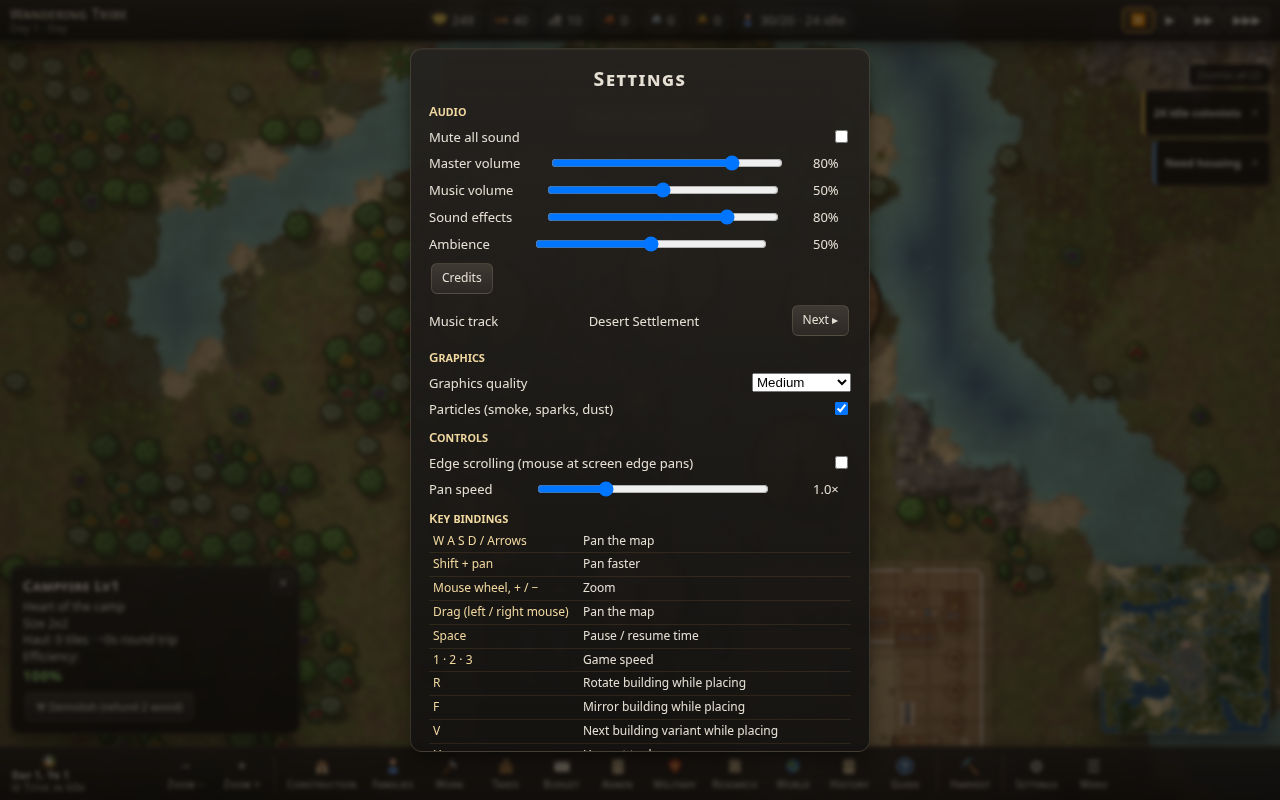
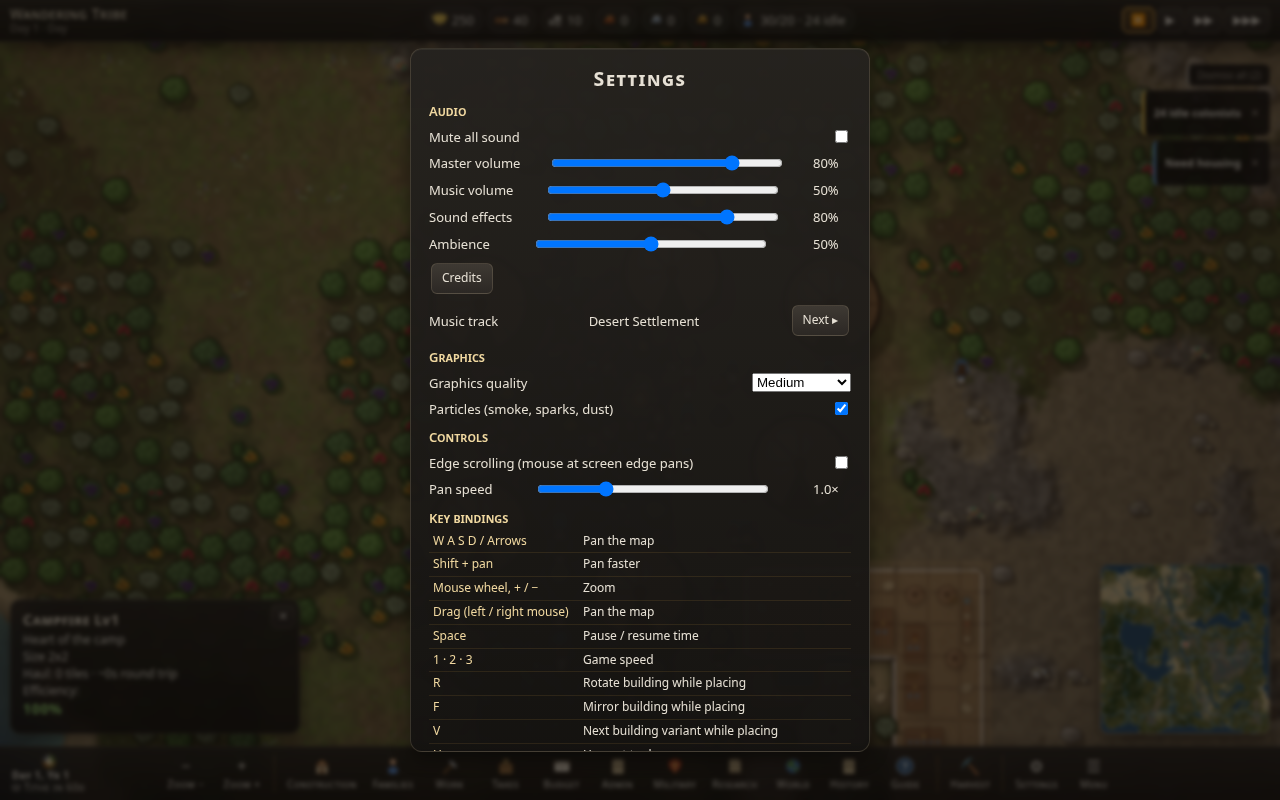
Perf: finer chunk/tree bake slices, building sprites built under a 5 ms frame budget and pre-built in idle frames, progressive sprite mips, minimap terrain overview refreshed at most every 15 s

diff --git a/index.html b/index.html
@@ -1183,7 +1183,7 @@ window.addEventListener('contextmenu',e=>{const t=e.target;if(t&&(t.tagName==='I
 window.addEventListener('resize',fitCanvas);
 
 function ghostAt(t){if(!placing||placing==='__move')return t;const s=bsz(placing);return{gx:t.gx-(s>>1),gy:t.gy-(s>>1)}}
-function worldChanged(){rebuildOcc();calcRT();ov64=null;computeRoads();buildProps();chunkSig++;overview=null;mmBase=null;PC.clear();ffAge(1);bgSig=''}
+function worldChanged(){rebuildOcc();calcRT();ovStale=1;computeRoads();buildProps();chunkSig++;overview=null;mmBase=null;PC.clear();ffAge(1);bgSig=''}
 function moveCamp(gx,gy){if(S.tier>0)return;const ok=[];for(let y=gy-2;y<=gy+2;y++)for(let x=gx-2;x<=gx+2;x++){const t=ter(x,y);if(t===T_GRASS||t===T_HILL)ok.push(1)}if(ok.length<18){log('Too rough to camp there — pick open ground.');return}
  const old=S.bl.slice();S.center={x:gx,y:gy};S.bl=[];rebuildOcc();for(const b of old){const dx=b.x-old[0].x,dy=b.y-old[0].y;S.bl.push({t:b.t,l:b.l,x:gx+dx,y:gy+dy});rebuildOcc();if(placeErr(b.t,gx+dx,gy+dy,true)!=='Tile taken'&&placeErr(b.t,gx+dx,gy+dy,true)){S.bl.pop();rebuildOcc();if(!autoPlace(b.t,b.l,true))log('Left a '+BLD[b.t].n+' behind.')}}
  worldChanged();burst(gx+.5,gy+.5,'#e8d8a8',30);log('The tribe packs up and moves camp.');centerOn(gx,gy);save();renderView()}
@@ -1258,7 +1258,7 @@ function cliffFaces(g,cx,cy){const C=CLIFF;for(let gy=cy*CS;gy<cy*CS+CS;gy++)for
 function renderChunk(cx,cy){const it=renderChunkG(cx,cy);let r;while(!(r=it.next()).done);return r.value}
 const PBCOV=new Set();function chComp(ch,cx,cy,DL){const W=CS*TS,M=48;if(ch.pc&&ch.pcV===PBV)return ch.pc;const ks=[];for(let dy=-1;dy<=1;dy++)for(let dx=-1;dx<=1;dx++){const k=(cx+dx)+','+(cy+dy),a=PCH[k];if(!a||!a.length)continue;const e=PBK[k];if(!e||e.src!==PBV||e.sc!==1)return ch.pc&&ch.pcV!==PBV?null:null;ks.push([e,dx,dy])}if(performance.now()>DL)return null;
  if(!ch.pcg){const[c,g]=mk(W,W);ch.pc=c;ch.pcg=g}const g=ch.pcg;g.setTransform(1,0,0,1,0,0);g.clearRect(0,0,W,W);g.drawImage(ch.c,0,0);for(const[e,dx,dy]of ks)g.drawImage(e.c,dx*W-M,dy*W-M,W+M*2,W+M*2);ch.pcV=PBV;return ch.pc}
-function cMip(c,tw){const W=c.width;if(!W||W<=tw*2)return c;const M=c._mip||(c._mip={});let L=W;while(L>tw*2&&L>16)L=L>>1;if(M[L])return M[L];let src=c,cw=W;for(const k in M){if(+k>L&&+k<cw){cw=+k;src=M[k]}}const[m,g]=mk(L,Math.max(1,Math.round(c.height*L/W)));g.imageSmoothingEnabled=true;g.imageSmoothingQuality='high';g.drawImage(src,0,0,m.width,m.height);return M[L]=m}
+function cMip(c,tw){const W=c.width;if(!W||W<=tw*2)return c;const M=c._mip||(c._mip={});let L=W;while(L>tw*2&&L>16)L=L>>1;if(M[L])return M[L];let src=c,cw=W;for(const k in M){if(+k>L&&+k<cw){cw=+k;src=M[k]}}if(cw>L*2)src=cMip(c,L*2+1);const[m,g]=mk(L,Math.max(1,Math.round(c.height*L/W)));g.imageSmoothingEnabled=true;g.imageSmoothingQuality='medium';g.drawImage(src,0,0,m.width,m.height);return M[L]=m}
 const CHJ={};function chunkJob(cx,cy,DL){const k=cx+','+cy;let j=CHJ[k];if(!j||j.sig!==chunkSig)j=CHJ[k]={it:renderChunkG(cx,cy),sig:chunkSig};do{const r=j.it.next();if(r.done){delete CHJ[k];const ch=r.value;ch.sig=chunkSig;CH[k]=ch;lowEnsure();lowPut(cx,cy,ch);return ch}}while(performance.now()<DL);return null}
 function* renderChunkG(cx,cy){const W=CS*32,ox=cx*W,oy=cy*W;const[c,g]=mk(W,W);const img=g.createImageData(W,W),d=img.data;let fimg=null,fd=null;const col=[0,0,0],tmp=[0,0,0];const dry=!!evOn('drought');
  for(let gy=cy*CS;gy<cy*CS+CS;gy++){for(let gx=cx*CS;gx<cx*CS+CS;gx++){const gi=gy*MW+gx,own=RT[gi],nbs=NBD.map(([dx,dy])=>rtAt(gx+dx,gy+dy)),diff=nbs.some(r=>r!==own);
@@ -1288,15 +1288,15 @@ function* renderChunkG(cx,cy){const W=CS*32,ox=cx*W,oy=cy*W;const[c,g]=mk(W,W);c
      R+=(r2-R)*a;G+=(g2-G)*a;B+=(b2-B)*a}}
    const k=(ly+(gy-cy*CS)*32)*W*4+(lx+(gx-cx*CS)*32)*4;d[k]=R*m;d[k+1]=G*m;d[k+2]=B*m;d[k+3]=255;
    if(wat>.08&&wat<.6&&h>.18){const fa=Math.max(0,1-Math.abs(wat-.3)*4.2)*(.55+.45*Math.sin((X+Y)*.35+n2*9));if(!fimg){fimg=g.createImageData(W,W);fd=fimg.data}fd[k]=236;fd[k+1]=244;fd[k+2]=240;fd[k+3]=Math.max(0,fa)*215}
-   else if(wat>.99&&hsh(X>>1,Y>>1,71)<.006){if(!fimg){fimg=g.createImageData(W,W);fd=fimg.data}fd[k]=200;fd[k+1]=228;fd[k+2]=240;fd[k+3]=150}}}if(gy&1)yield 0}
- g.putImageData(img,0,0);if(CLIFF)cliffFaces(g,cx,cy);
+   else if(wat>.99&&hsh(X>>1,Y>>1,71)<.006){if(!fimg){fimg=g.createImageData(W,W);fd=fimg.data}fd[k]=200;fd[k+1]=228;fd[k+2]=240;fd[k+3]=150}}}yield 0}
+ g.putImageData(img,0,0);yield 0;if(CLIFF)cliffFaces(g,cx,cy);
 // painterly grass tufts / pebbles / reeds
- for(let gy=cy*CS;gy<cy*CS+CS;gy++)for(let gx=cx*CS;gx<cx*CS+CS;gx++){const gi=gy*MW+gx,r=RT[gi];if(occ[gi]||roadSet[gi])continue;{let nb=0;for(const[dx,dy]of NBD){const o=occ[(gy+dy)*MW+gx+dx];if(o&&S.bl[o-1]&&!FLATB[S.bl[o-1].t]&&!APX[S.bl[o-1].t])nb=1}if(nb&&hsh(gx,gy,44)<.8)continue}const lx0=(gx-cx*CS)*32,ly0=(gy-cy*CS)*32;
+ for(let gy=cy*CS;gy<cy*CS+CS;gy++){if(gy&1)yield 0;for(let gx=cx*CS;gx<cx*CS+CS;gx++){const gi=gy*MW+gx,r=RT[gi];if(occ[gi]||roadSet[gi])continue;{let nb=0;for(const[dx,dy]of NBD){const o=occ[(gy+dy)*MW+gx+dx];if(o&&S.bl[o-1]&&!FLATB[S.bl[o-1].t]&&!APX[S.bl[o-1].t])nb=1}if(nb&&hsh(gx,gy,44)<.8)continue}const lx0=(gx-cx*CS)*32,ly0=(gy-cy*CS)*32;
   if(r<=R_FOREST){const n=3+(hsh(gx,gy,3)*5|0);for(let k=0;k<n;k++){const x=lx0+3+hsh(gx,gy,k*3+1)*26,y=ly0+4+hsh(gx,gy,k*3+2)*25,gr=r===R_MARSH?[78,104,60]:dry?[150,130,70]:[84+hsh(k,gx)*30,118+hsh(k,gy)*24,52];
     for(let s=-2;s<=2;s++){g.strokeStyle='rgba('+(gr[0]+s*6|0)+','+(gr[1]+s*5|0)+','+gr[2]+','+(.75)+')';g.lineWidth=1;g.beginPath();g.moveTo(x,y);g.lineTo(x+s*1.6,y-3-Math.abs(2-Math.abs(s))*1.2);g.stroke()}}}
   else if(r===R_SAND||r===R_GRAVEL){for(let k=0;k<3;k++){const x=lx0+hsh(gx,gy,k+20)*30,y=ly0+hsh(gx,gy,k+30)*30;circ(g,x,y,.9+hsh(k,gx,gy),'rgba(90,76,56,.45)')}
    if(r===R_SAND&&hsh(gx,gy,61)<.55){const y=ly0+6+hsh(gx,gy,62)*20,x=lx0+2+hsh(gx,gy,63)*8;g.strokeStyle='rgba(120,96,60,.22)';g.lineWidth=.8;g.beginPath();g.moveTo(x,y);g.quadraticCurveTo(x+9,y-2.5,x+18,y);g.stroke();g.strokeStyle='rgba(255,246,220,.2)';g.beginPath();g.moveTo(x+1,y+1.2);g.quadraticCurveTo(x+9,y-1.3,x+17,y+1.2);g.stroke()}}
-  TDET(g,r,gx,gy,lx0,ly0,dry)}
+  TDET(g,r,gx,gy,lx0,ly0,dry)}}
  let f=null;if(fimg){const[fc,fg]=mk(W,W);fg.putImageData(fimg,0,0);f=fc}return{c,f,ox,oy}}
 // ---- wheat farms: cached base (soil, furrows, ditches, border) + per-plant growth stages with wind sway ----
 const FARMC=new Map();
@@ -1716,7 +1716,7 @@ let PBV=0;let PB_ON=0;const PBJ={};function propBake(vl,vr,vt,vb,now){if(PBsrc!=
  const t0=performance.now(),DL=t0+((lowPrefill.mv&&t0-lowPrefill.mv<350)?2.5:5);
  for(let cy=Math.max(0,Math.floor(vt/W));cy<=Math.min(MH/CS-1,Math.floor(vb/W));cy++)for(let cx=Math.max(0,Math.floor(vl/W));cx<=Math.min(MW/CS-1,Math.floor(vr/W));cx++){const k=cx+','+cy,a=PCH[k];if(!a||!a.length)continue;let e=PBK[k];
   if((!e||e.src!==PBV||e.sc!==sc)&&performance.now()<DL){let j=PBJ[k];if(!j||j.src!==PBV||j.sc!==sc){const cw=Math.ceil((W+M*2)*sc);const[c,g]=mk(cw,cw),[u,ug]=sc<1?[null,null]:mk(cw,cw);for(const q of ug?[g,ug]:[g])q.setTransform(sc,0,0,sc,(M-cx*W)*sc,(M-cy*W)*sc);j=PBJ[k]={c,g,u,ug,sc,src:PBV,hu:0,L:a.slice().sort((p,q)=>p.gy-q.gy),i:0}}
-   const g=j.g,ug=j.ug,ov=vx;PB_ON=1;try{while(j.i<j.L.length){const pr=j.L[j.i++];const X=pr.gx*TS,Y=pr.gy*TS,vv=(hsh(pr.gx*7|0,pr.gy*7|0)*3)|0,sp=propSpr(pr.k,vv),big=pr.k==='oak'||pr.k==='palm'||pr.k==='olive';if(!big||sc<1){vx=g;rnDrawProp(pr,X,Y,sp,0,big)}else{j.hu=1;for(const[q,lo]of[[g,1],[ug,0]]){q.save();q.beginPath();lo?q.rect(X-30,Y+5,60,30):q.rect(X-30,Y-30,60,35);q.clip();vx=q;rnDrawProp(pr,X,Y,sp,0,big);q.restore()}}if((j.i&15)===0&&performance.now()>DL)break}}finally{vx=ov;PB_ON=0}
+   const g=j.g,ug=j.ug,ov=vx;PB_ON=1;try{while(j.i<j.L.length){const pr=j.L[j.i++];const X=pr.gx*TS,Y=pr.gy*TS,vv=(hsh(pr.gx*7|0,pr.gy*7|0)*3)|0,sp=propSpr(pr.k,vv),big=pr.k==='oak'||pr.k==='palm'||pr.k==='olive';if(!big||sc<1){vx=g;rnDrawProp(pr,X,Y,sp,0,big)}else{j.hu=1;for(const[q,lo]of[[g,1],[ug,0]]){q.save();q.beginPath();lo?q.rect(X-30,Y+5,60,30):q.rect(X-30,Y-30,60,35);q.clip();vx=q;rnDrawProp(pr,X,Y,sp,0,big);q.restore()}}if((j.i&3)===0&&performance.now()>DL)break}}finally{vx=ov;PB_ON=0}
    if(j.i>=j.L.length){e=PBK[k]={c:j.c,g:j.g,u:j.u,ug:j.ug,sc,src:PBV,hu:j.hu,t:now};delete PBJ[k]}}
   if(e){e.used=now;if(!PBCOV.has(k))vx.drawImage(e.c,cx*W-M,cy*W-M,W+M*2,W+M*2);if(e.hu&&sc===1&&e.sc===1)propBake.up.push([e.u,cx*W-M,cy*W-M,W+M*2])}}
  const ks=Object.keys(PBK),pl=sc<1?300:130;if(ks.length>pl){ks.sort((p,q)=>(PBK[p].used||0)-(PBK[q].used||0));ks.slice(0,ks.length-pl+30).forEach(k=>delete PBK[k])}const jk=Object.keys(PBJ);if(jk.length>40)jk.slice(0,jk.length-40).forEach(k=>delete PBJ[k])}
@@ -1788,7 +1788,7 @@ function aniSpr(k,fr){const key=k+fr;if(ASPR[key])return ASPR[key];const A=ANI[k
 function critDraw(c,now){const X=c.x*TS,Y=c.y*TS,f=c.dir<0?-1:1,A=ANI[c.k]||ANI.deer;const mv=c.tx!=null&&Math.hypot((c.tx||0)-c.x,(c.ty||0)-c.y)>.03;const fr=mv?Math.floor(now/140+(c.x*7|0))%4:(c.graze?4:0),bob=mv?Math.abs(Math.sin(now/140*Math.PI/2))*.8:0;
  ell(vx,X+1,Y+1.5,A.w*.95,A.h*.55,'rgba(20,14,8,.25)');vx.save();vx.translate(X,Y-bob);if(f<0)vx.scale(-1,1);vx.drawImage(aniSpr(c.k,fr),-24,-26,48,36);vx.restore()}
 let vign=null;
-function vframe(now){const rdt=Math.min(.1,(now-(last||now))/1000),dt=rdt*spd;last=now;camStep(rdt);AXF++;getChunk.bud=3;PAT.bud=48;farmDraw.bud=2;if(spd){vframe.tt=(vframe.tt||0)+dt;if(vframe.tt>.5){vframe.tt=0;/* road congestion removed: roads are optional speed boosts */}vframe.pc=(vframe.pc||0)+dt;if(vframe.pc>6){vframe.pc=0;PC.clear();ffNow+=6;ffAge(0);wearTick()}}
+function vframe(now){vframe.t0=performance.now();const rdt=Math.min(.1,(now-(last||now))/1000),dt=rdt*spd;last=now;camStep(rdt);AXF++;getChunk.bud=3;PAT.bud=48;farmDraw.bud=2;if(spd){vframe.tt=(vframe.tt||0)+dt;if(vframe.tt>.5){vframe.tt=0;/* road congestion removed: roads are optional speed boosts */}vframe.pc=(vframe.pc||0)+dt;if(vframe.pc>6){vframe.pc=0;PC.clear();ffNow+=6;ffAge(0);wearTick()}}
  const dsig=!!evOn('drought')+'';if(dsig!==vframe.ds){vframe.ds=dsig;chunkSig++;ov64=null}if(!RT)calcRT();if(!bgSig){bgSig='b'+Math.random();rosterSig='';calcDistricts()}syncRoster();
  vx.setTransform(PXR,0,0,PXR,0,0);let sx=0,sy=0;if(vis.shake>0){vis.shake-=dt;sx=(Math.random()-.5)*8;sy=(Math.random()-.5)*6}
  const z=cam.z,TF=()=>vx.setTransform(z*PXR,0,0,z*PXR,Math.round((-cam.x+sx)*z*PXR),Math.round((-cam.y+sy)*z*PXR));TF();vx.imageSmoothingEnabled=true;
@@ -1798,7 +1798,7 @@ function vframe(now){const rdt=Math.min(.1,(now-(last||now))/1000),dt=rdt*spd;la
   for(let cy=r0;cy<=r1;cy++)for(let cx=c0;cx<=c1;cx++){const k=cx+','+cy;let ch=CH[k];if((!ch||ch.sig!==chunkSig)&&z>=.3&&performance.now()<CDL){const nc=chunkJob(cx,cy,CDL);if(nc)ch=nc}if(!ch||z<.3)continue;ch.used=now;const a=Math.round(X0+cx*W*zp),b=Math.round(Y0+cy*W*zp),w=Math.round(X0+(cx+1)*W*zp)-a,h=Math.round(Y0+(cy+1)*W*zp)-b;vx.imageSmoothingEnabled=z<1.5;const pc=BKM&&z>=.6?chComp(ch,cx,cy,CDL):null;if(pc)PBCOV.add(k);vx.drawImage(pc||chMip(ch,w),a,b,w,h);if(ch.f&&z>=.5){vx.globalAlpha=.45+.35*Math.sin(now/650+cx*1.7+cy);vx.drawImage(ch.f,a+Math.sin(now/1300)*zp*.8,b+((now/900|0)%2)*.6*zp,w,h);vx.globalAlpha=1}}
   vx.imageSmoothingEnabled=true;const ks=Object.keys(CH),nv=(c1-c0+1)*(r1-r0+1),lim=Math.max(220,nv*2+20);if(ks.length>lim){ks.sort((p,q)=>(CH[p].used||0)-(CH[q].used||0));ks.slice(0,ks.length-lim+30).forEach(k=>{if(CH[k].used!==now)delete CH[k]})}lowPrefill(c0,c1,r0,r1,z,now);TF()}
  const wt=now/1000;if(z>=.5){const gx0=Math.max(0,vl/TS|0),gx1=Math.min(MW-1,vr/TS|0),gy0=Math.max(0,vt/TS|0),gy1=Math.min(MH-1,vb/TS|0);for(let gy=gy0;gy<=gy1;gy++)for(let gx=gx0;gx<=gx1;gx++){if(hsh(gx,gy,9)>.18||!isWat(RT[gy*MW+gx]))continue;const X=(gx+hsh(gx,gy,4))*TS,Y=(gy+hsh(gx,gy,5))*TS,ph=(wt*.9+hsh(gx,gy,3)*6)%3;if(ph<1.6){vx.globalAlpha=Math.sin(ph/1.6*Math.PI)*.5;ln(vx,X+ph*5,Y,X+ph*5+7,Y,'#d8eef6',1);vx.globalAlpha=1}}}
- const D=[],blist=blds(),flats=[];FPB.on=1;FPB.n=FX.mob?1:2;
+ const D=[],blist=blds(),flats=[];FPB.on=1;FPB.n=1;
  blist.forEach(o=>{const b=o.b;let v=b.o||'';if(b.t==='farm'&&evOn('drought'))v='dry';const fe=S.ev.act.find(e=>e.id==='fire'&&e.bi===o.i);if(fe)v='burn';const s=o.s,X=o.gx*TS,Y=o.gy*TS;if(X>vr||X+s*TS<vl||Y>vb||Y+s*TS<vt)return;const sp=b.t==='wall'?wallSpr(b.x,b.y):bfp(b)?fpSpr(b,v):bspr(b.t,b.l,v);
   const e={o,sp,p:{x:X,y:Y},fire:!!fe,f:b.cp?()=>siteDraw(b,sp,X,Y,s,now):b.t==='farm'&&v!=='burn'?()=>farmDraw(b,X,Y,s,v,now,z):()=>{vx.drawImage(cMip(sp.c,(s*TS+16)*z*PXR),X-8,Y-8,s*TS+16,s*TS+16);if(sp.m.walled||STORES[b.t])bldOver(b,o.i,X,Y,s,z,dt)},k:(o.gy+s)*TS-2};if(sp.m.flat){flats.push(e)}else D.push(e)});
  ecoDrawFields(vl,vr,vt,vb,z);FPB.on=0;flats.forEach(e=>e.f());if(z>=.45&&S.stk)blist.forEach(o=>{const b=o.b;if(S.stk[bid(b)])stkDraw(b,o.gx*TS,o.gy*TS,o.s)});
@@ -1854,9 +1854,12 @@ function vframe(now){const rdt=Math.min(.1,(now-(last||now))/1000),dt=rdt*spd;la
  TF();vx.font='bold 12px sans-serif';vx.textAlign='center';pops=pops.filter(q=>(q.l-=dt)>0);for(const q of pops){q.y-=16*dt;if(!inV(q.x,q.y))continue;vx.globalAlpha=Math.min(1,q.l);vx.fillStyle='#1a140e';vx.fillText(q.txt,q.x+1,q.y+1);vx.fillStyle=q.col;vx.fillText(q.txt,q.x,q.y)}vx.globalAlpha=1;
  if(bubble&&(bubble.t-=dt)>0&&agents.includes(bubble.a)){const a=bubble.a,P=isoP(a.x,a.y);vx.font='11px sans-serif';const tw=Math.ceil(vx.measureText(bubble.s).width)+12,X=P.x-tw/2,Y=P.y-50;rr(vx,X,Y,tw,16,4,'rgba(250,244,228,.95)',OUTL,1);vx.fillStyle='#2b2118';vx.fillText(bubble.s,P.x,Y+11.5)}else bubble=null;
  vx.textAlign='left';vx.setTransform(PXR,0,0,PXR,0,0);if(Math.floor(now/250)!==vframe.mt){vframe.mt=Math.floor(now/250);drawMinimap();if(sel&&(sel.a||sel.n))showInsp();if(vframe.mt%4===0)renderAlerts()}
+ // idle time: pre-build one missing building sprite (and its mip for this zoom) so buildings never pop in as stubs
+ if(performance.now()-vframe.t0<7&&S.bl.length&&(performance.now()-(lowPrefill.mv||0)>1500||performance.now()<(vframe.boot||(vframe.boot=performance.now()+4000)))){FPB.on=1;FPB.n=1;FPB.pre=1;try{for(let k=0;k<40&&FPB.n>0;k++){vframe.pi=((vframe.pi||0)+1)%S.bl.length;const b=S.bl[vframe.pi];if(b&&b.t!=='wall'&&bfp(b)){const sp=fpSpr(b,b.o||'');if(sp&&sp.c&&FPB.n<=0)cMip(sp.c,(bsz(b.t)*TS+16)*cam.z*PXR)}}}catch(e){}FPB.on=0;FPB.pre=0}
  requestAnimationFrame(vframe)}
 let mmBase=null;const mm=$('mm'),mmx=mm.getContext('2d');
-function drawMinimap(){if(!mmBase){const[c,g]=mk(128,128);if(!ov64)buildOverview();g.imageSmoothingEnabled=true;g.drawImage(ov64,0,0,128,128);S.bl.forEach(b=>{const s=bsz(b.t);g.fillStyle=b.t==='wall'||b.t==='gate'?'#e8d0a0':FLATB[b.t]?'#c8b060':'#e8502a';g.fillRect(b.x*128/MW,b.y*128/MW,Math.max(1.5,s*128/MW),Math.max(1.5,s*128/MW))});mmBase=c}
+let ovStale=0;function drawMinimap(){if(!mmBase){const[c,g]=mk(128,128);// the terrain overview (1M-pixel pass) is refreshed at most every 15 s; buildings are drawn on top every time
+ if(!ov64||(ovStale&&performance.now()-(drawMinimap.ot||0)>15000)){buildOverview();ovStale=0;drawMinimap.ot=performance.now()}g.imageSmoothingEnabled=true;g.drawImage(ov64,0,0,128,128);S.bl.forEach(b=>{const s=bsz(b.t);g.fillStyle=b.t==='wall'||b.t==='gate'?'#e8d0a0':FLATB[b.t]?'#c8b060':'#e8502a';g.fillRect(b.x*128/MW,b.y*128/MW,Math.max(1.5,s*128/MW),Math.max(1.5,s*128/MW))});mmBase=c}
  mmx.clearRect(0,0,128,128);mmx.drawImage(mmBase,0,0);const R=0,c=S.center;mmx.strokeStyle='rgba(255,240,180,0)';mmx.lineWidth=1;mmx.strokeRect((c.x-R)*128/MW,(c.y-R)*128/MW,(2*R+1)*128/MW,(2*R+1)*128/MW);
  mmx.strokeStyle='#fff';mmx.strokeRect(cam.x/WW*128,cam.y/WH*128,Math.max(2,VW/cam.z/WW*128),Math.max(2,VH/cam.z/WH*128))}
 mm.addEventListener('pointerdown',e=>{e.stopPropagation();const r=mm.getBoundingClientRect();centerOn((e.clientX-r.left)/r.width*MW,(e.clientY-r.top)/r.height*MH)});
@@ -2939,7 +2942,7 @@ function fpDoor(b){const f=bfp(b);if(!f)return null;const V=FP[b.t][f.v||0];if(!
 const FPB={on:0,n:2};// per-frame budget for building new detailed sprites (avoids hitches on phones)
 function fpStub(t){const s=bsz(t),k='STUB'+s;if(SPR[k])return SPR[k];const[c,g]=mkW(s*32+16,s*32+16);g.translate(8,8);g.globalAlpha=.35;rr(g,4,4,s*32-8,s*32-8,8,'#b8a07a');return SPR[k]={c,m:{lights:[],smoke:[],fx:[],fire:null,flat:false,s,walled:true}}}
 // sprite for a shaped building, drawn in its final orientation (smooth curved walls)
-function fpSpr(b,v){const f=bfp(b),t=b.t,l=Math.min(b.l||1,5);const key='F'+t+l+(f.v||0)+(f.r||0)+(f.m?1:0)+(v||'')+((S&&S.civ)||'')+(S&&S.tier>=3?'s':'');if(SPR[key])return SPR[key];if(FPB.on){if(FPB.n<=0)return fpStub(t);FPB.n--}const P=fpPrims(t,f);if(!P)return bspr(t,b.l,v);
+function fpSpr(b,v){const f=bfp(b),t=b.t,l=Math.min(b.l||1,5);const key='F'+t+l+(f.v||0)+(f.r||0)+(f.m?1:0)+(v||'')+((S&&S.civ)||'')+(S&&S.tier>=3?'s':'');if(SPR[key])return SPR[key];if(FPB.on){if(FPB.n<=0||performance.now()-(vframe.t0||0)>(FPB.pre?9:5))return fpStub(t);FPB.n--}const P=fpPrims(t,f);if(!P)return bspr(t,b.l,v);
  const s=bsz(t),W=s*32,[c,g]=mkW(W+16,W+16);g.translate(8,8);const m={lights:[],smoke:[],fire:null,flat:false,s,walled:true};const A=civA(),wc=A.wall.c,th=Math.max(7,Math.min(11,W*.035));const V=FP[t][f.v||0];
  const path=(p,ins)=>{const q=new Path2D();if(p.k==='r'){const r=Math.min(10,p.w*W*.15,p.h*W*.15);q.roundRect?q.roundRect(p.x*W+ins,p.y*W+ins,p.w*W-2*ins,p.h*W-2*ins,Math.max(1,r-ins*.5)):q.rect(p.x*W+ins,p.y*W+ins,p.w*W-2*ins,p.h*W-2*ins)}else q.ellipse(p.x*W,p.y*W,Math.max(1,p.rx*W-ins),Math.max(1,p.ry*W-ins),0,0,6.2832);return q};
  const solid=P.filter(p=>!['court','field','thresh','fold','stall'].includes(p.tag)),open=P.filter(p=>p.tag==='court'),uni=new Path2D();
